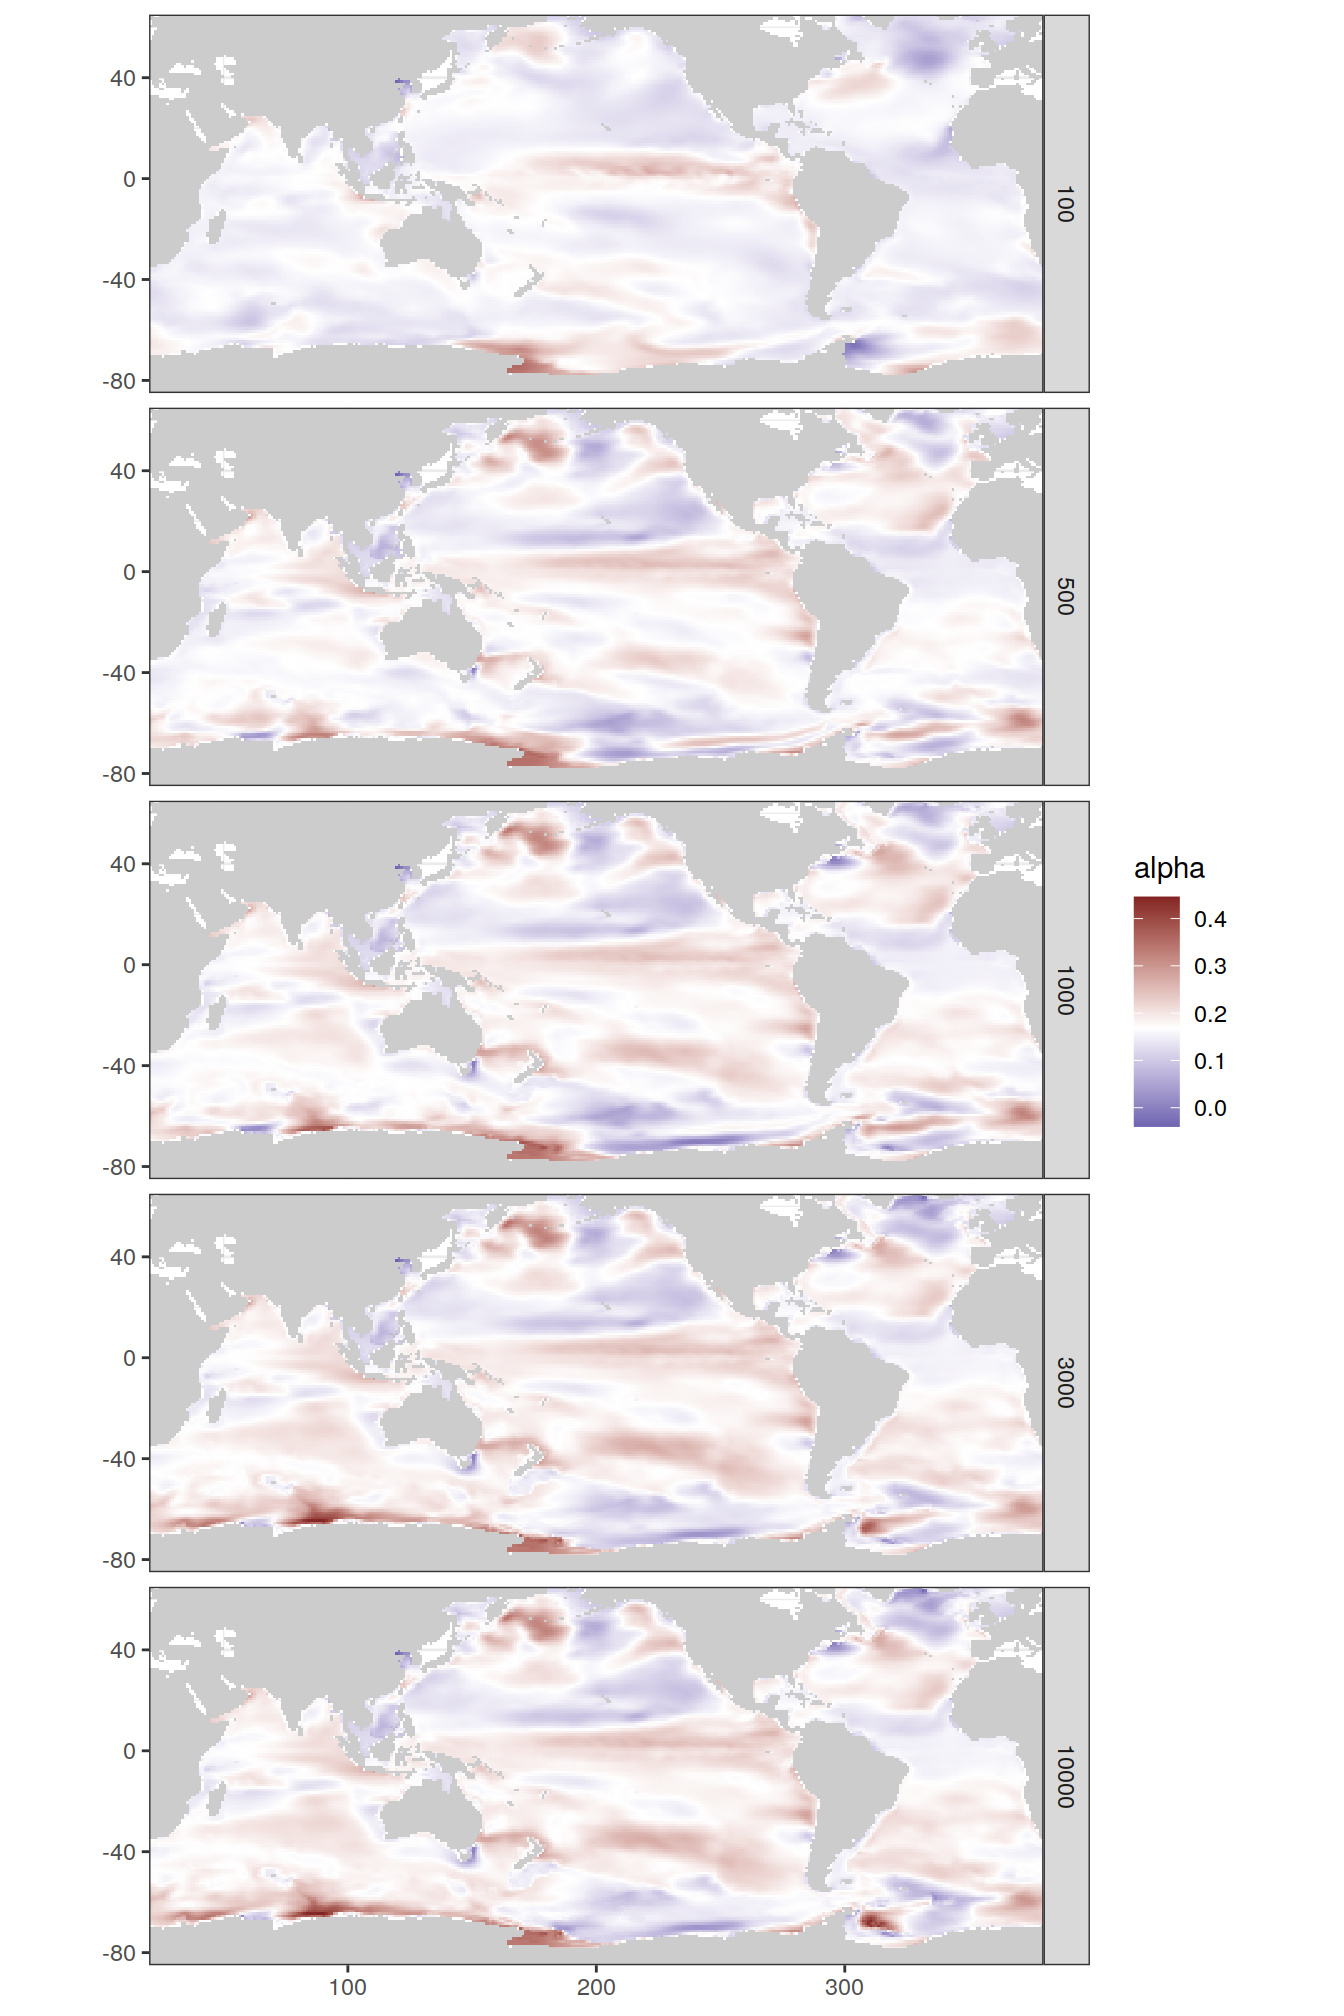
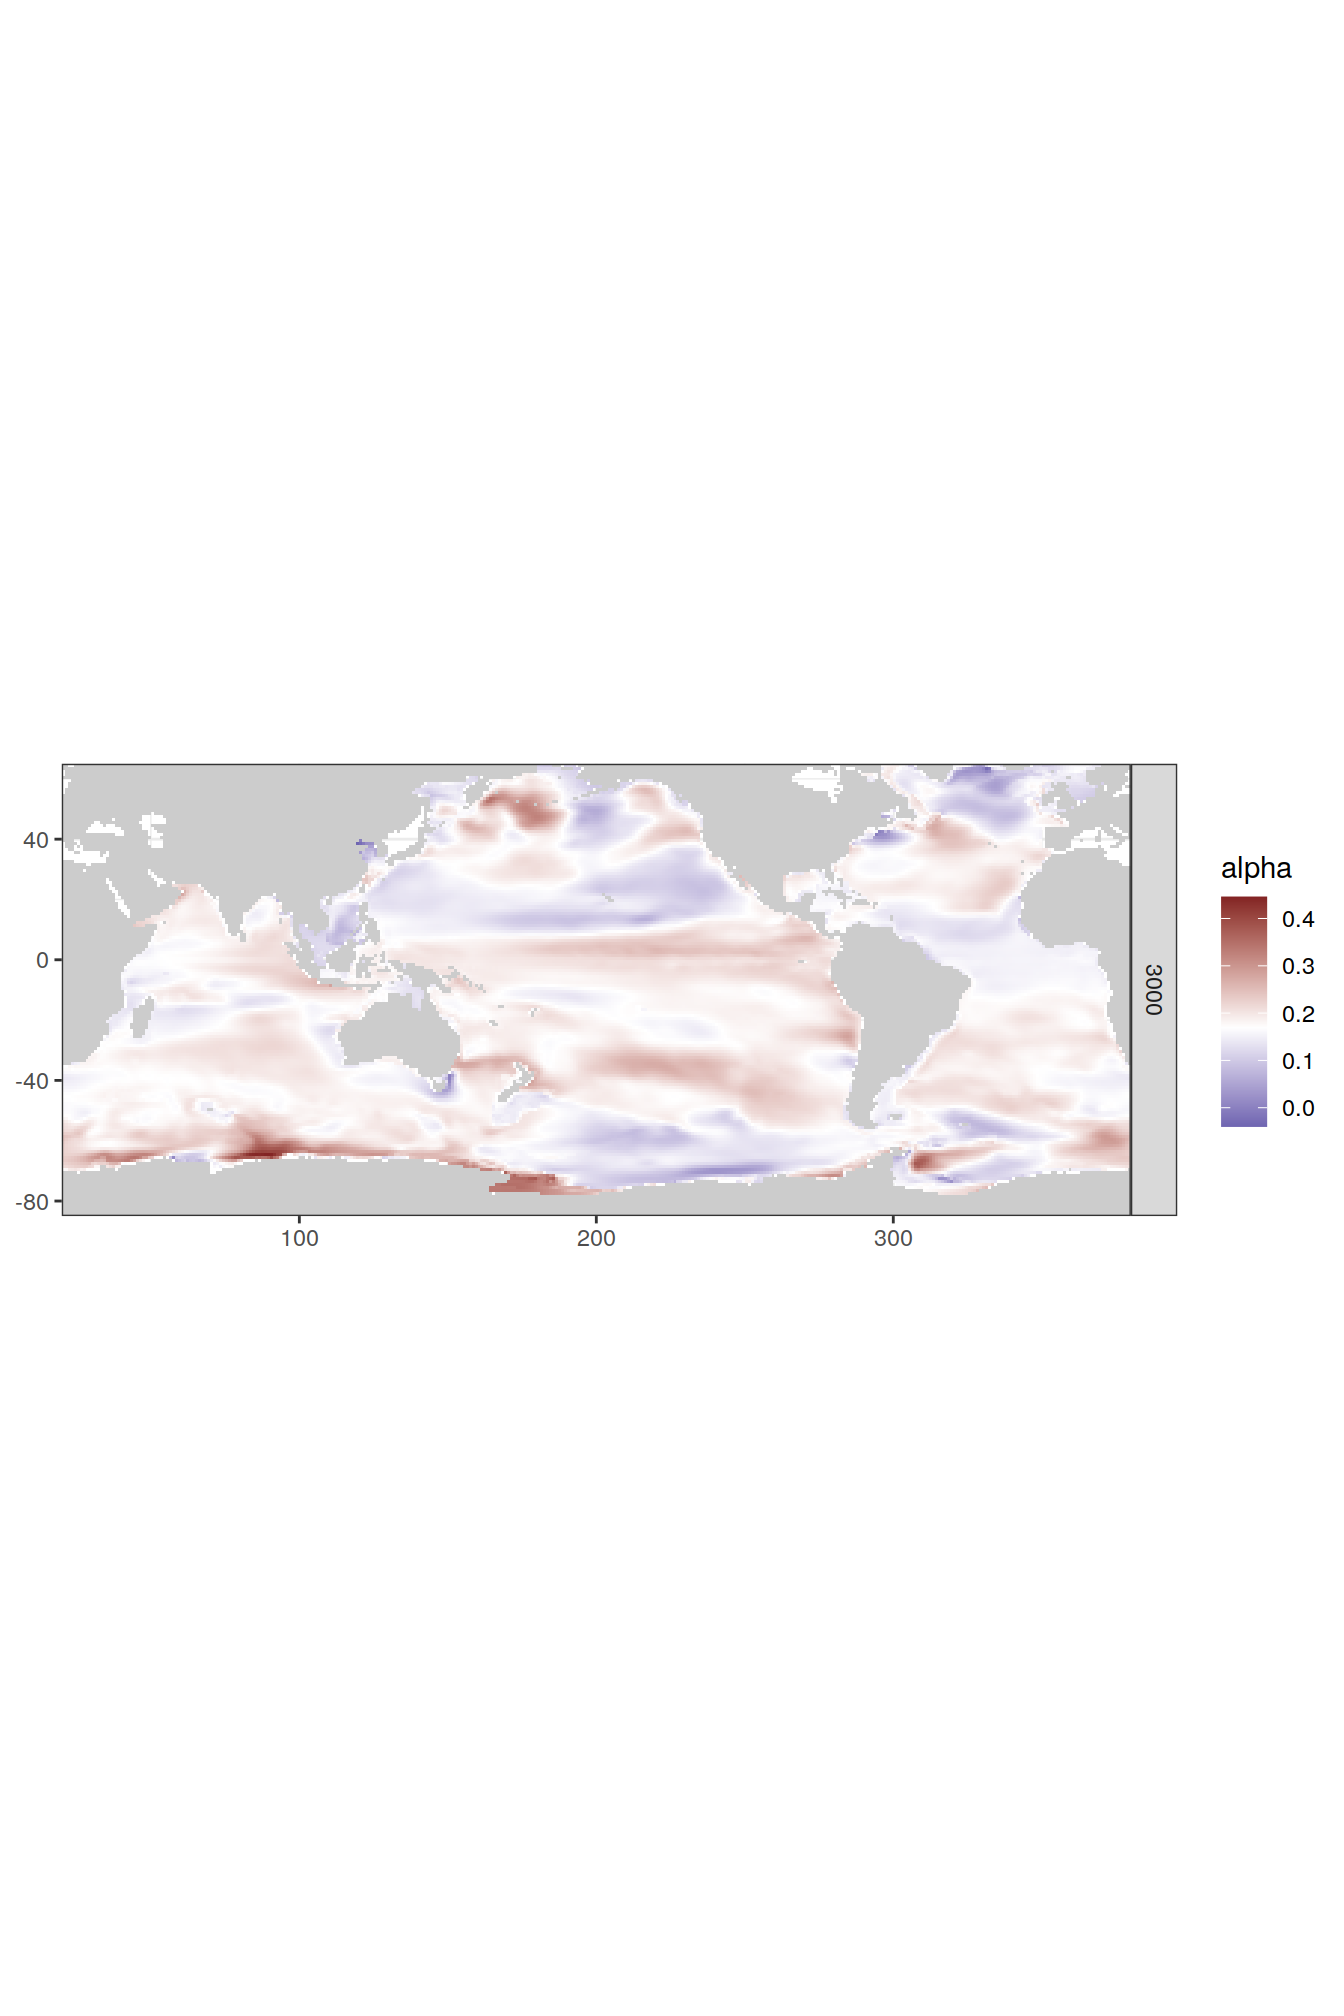
Build site.

diff --git a/docs/mapping_cant_mod_truth.html b/docs/mapping_cant_mod_truth.html
@@ -614,16 +614,16 @@ This reproducible <a href="http://rmarkdown.rstudio.com">R Markdown</a> analysis
 <div class="panel panel-default">
 <div class="panel-heading">
 <p class="panel-title">
-<a data-toggle="collapse" data-parent="#workflowr-checks" href="#strongRepositoryversionstrongahrefhttpsgithubcomjensdanielmuelleremlrobsvXXXtree694d661abf15a57eb96a3d1e88f3f20905d3c925targetblank694d661a"> <span class="glyphicon glyphicon-ok text-success" aria-hidden="true"></span> <strong>Repository version:</strong> <a href="https://github.com/jens-daniel-mueller/emlr_obs_v_XXX/tree/694d661abf15a57eb96a3d1e88f3f20905d3c925" target="_blank">694d661</a> </a>
+<a data-toggle="collapse" data-parent="#workflowr-checks" href="#strongRepositoryversionstrongahrefhttpsgithubcomjensdanielmuelleremlrobsvXXXtreed603f12170cbf66834cfa3d84dc7c67b7e1f33b1targetblankd603f12a"> <span class="glyphicon glyphicon-ok text-success" aria-hidden="true"></span> <strong>Repository version:</strong> <a href="https://github.com/jens-daniel-mueller/emlr_obs_v_XXX/tree/d603f12170cbf66834cfa3d84dc7c67b7e1f33b1" target="_blank">d603f12</a> </a>
 </p>
 </div>
[2 lines of base64/hex data omitted]
 <div class="panel-body">
 <p>
 Great! You are using Git for version control. Tracking code development and connecting the code version to the results is critical for reproducibility.
 </p>
 <p>
-The results in this page were generated with repository version <a href="https://github.com/jens-daniel-mueller/emlr_obs_v_XXX/tree/694d661abf15a57eb96a3d1e88f3f20905d3c925" target="_blank">694d661</a>. See the <em>Past versions</em> tab to see a history of the changes made to the R Markdown and HTML files.
+The results in this page were generated with repository version <a href="https://github.com/jens-daniel-mueller/emlr_obs_v_XXX/tree/d603f12170cbf66834cfa3d84dc7c67b7e1f33b1" target="_blank">d603f12</a>. See the <em>Past versions</em> tab to see a history of the changes made to the R Markdown and HTML files.
 </p>
 <p>
 Note that you need to be careful to ensure that all relevant files for the analysis have been committed to Git prior to generating the results (you can use <code>wflow_publish</code> or <code>wflow_git_commit</code>). workflowr only checks the R Markdown file, but you know if there are other scripts or data files that it depends on. Below is the status of the Git repository when the results were generated:
@@ -632,9 +632,6 @@ Note that you need to be careful to ensure that all relevant files for the analy
 Ignored files:
     Ignored:    .Rhistory
     Ignored:    .Rproj.user/
-
-Unstaged changes:
-    Modified:   code/Workflowr_project_managment.R
 
 </code></pre>
 <p>
@@ -673,6 +670,40 @@ Message
 </tr>
 </thead>
 <tbody>
+<tr>
+<td>
+Rmd
+</td>
+<td>
+<a href="https://github.com/jens-daniel-mueller/emlr_obs_v_XXX/blob/d603f12170cbf66834cfa3d84dc7c67b7e1f33b1/analysis/mapping_cant_mod_truth.Rmd" target="_blank">d603f12</a>
+</td>
+<td>
+jens-daniel-mueller
+</td>
+<td>
+2021-06-15
+</td>
+<td>
+revise plots
+</td>
+</tr>
+<tr>
+<td>
+html
+</td>
+<td>
+<a href="https://rawcdn.githack.com/jens-daniel-mueller/emlr_obs_v_XXX/3052a6c876903fb8c1f60f3037d08bb09902f1b2/docs/mapping_cant_mod_truth.html" target="_blank">3052a6c</a>
+</td>
+<td>
+jens-daniel-mueller
+</td>
+<td>
+2021-06-15
+</td>
+<td>
+Build site.
+</td>
+</tr>
 <tr>
 <td>
 html
@@ -2388,6 +2419,7 @@ alpha_3d %&gt;%
   scale_color_manual(name = &quot;Alpha&quot;,
                      values = c(&quot;red&quot;, &quot;orange&quot;)) +
   scale_y_reverse() +
+  scale_x_continuous(breaks = seq(0, 1, 0.1)) +
   scale_fill_viridis_c(trans = &quot;log10&quot;) +
   coord_cartesian(expand = 0) +
   facet_grid(basin_AIP~.)</code></pre>
@@ -2467,7 +2499,7 @@ alpha_inv &lt;- alpha_inv %&gt;%
 
 
 map +
-  geom_raster(data = alpha_inv,
+  geom_raster(data = alpha_inv %&gt;% filter(inv_depth == params_global$inventory_depth_standard),
               aes(lon, lat, fill = alpha)) +
   facet_grid(inv_depth ~ .) +
   scale_fill_divergent(
